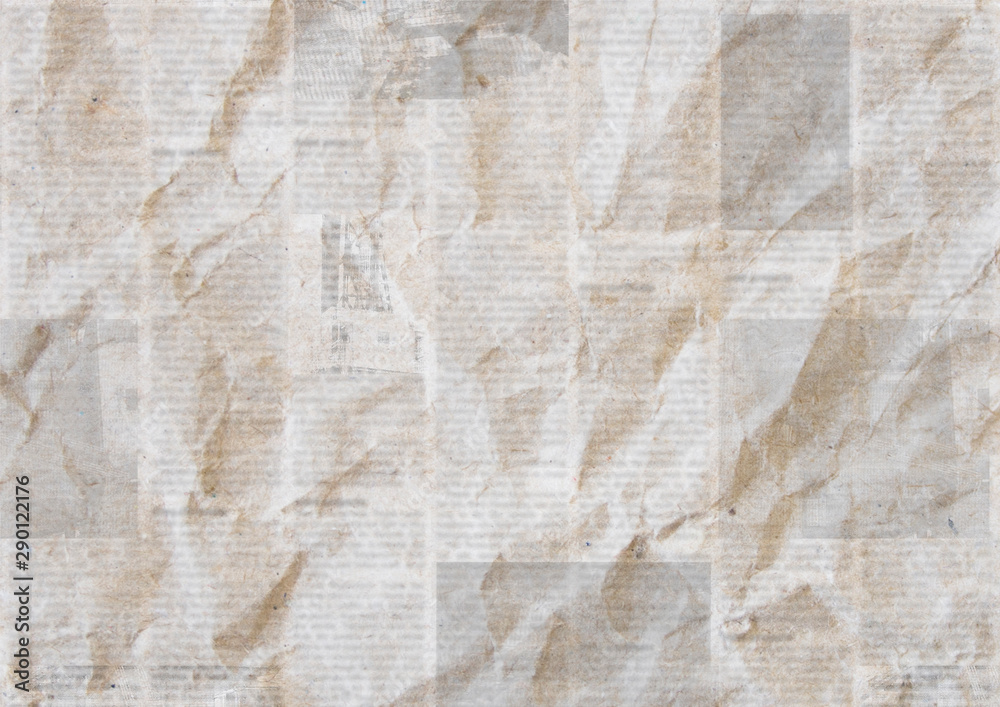
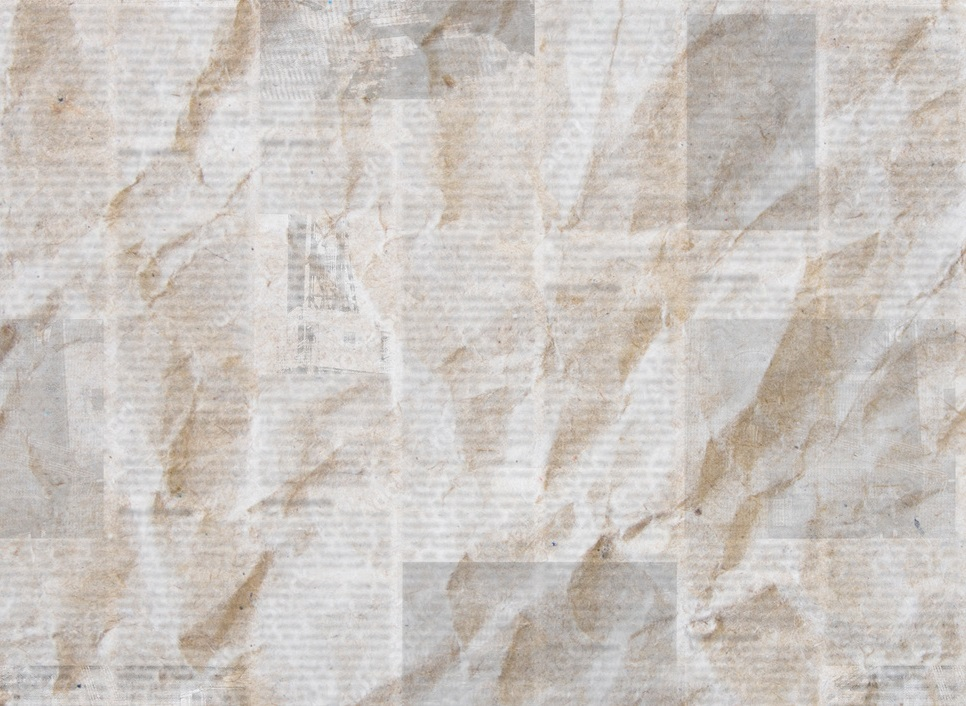
formatted related stocks buttons - arrangement, size, spacing, hover, dynamics, etc., and cropped background image to remove watermark that showed on full screen

diff --git a/assets/style.css b/assets/style.css
@@ -171,6 +171,7 @@ input {
     margin-left: 20px;
     background-image: linear-gradient(rgb(220, 220, 220), white);
     background-image: url("newspaperbackground.jpg");
+    background-size: cover;
     border: 2px solid black;
     border-radius: 15px;
     box-shadow: 2px 2px 2px black;
@@ -186,22 +187,26 @@ input {
     flex-basis: 100%;
 }
 
-#sectorStocks.button {
-    background-color: rgb(255, 255, 255);
+#sectorStocks {
+    display: flex;
+    flex-flow: row wrap;
+    justify-content: center;
+}
+
+#related-button {
+    background-color: white;
     border: 2px solid black;
     border-radius: 5px;
     box-shadow: 2px 2px 2px black;
-    width: fit-content;
-    min-width: 100px;
-    height: fit-content;
-    margin: 10px;
+    width: 200px;
+    height: 50px;
+    margin: 20px;
     padding: 5px;
-    font-size: 20px;
+    font-size: 12px;
 }
 
-#related1:hover, #related2:hover, #related3:hover {
+#related-button:hover {
     scale: 105%;
-    font-size: 22px;
     color: white;
     background-color: blue;
 }

diff --git a/assets/script.js b/assets/script.js
@@ -133,7 +133,7 @@ function showStockData(data) {
         for (let i = 0; i < dataSet.length; i++) {
             if (dataSet[i].Sector == sectorName) {
                 console.log(dataSet[i].Name);
-                var sectorStockBtn = $("<button>").text(dataSet[i].Name + " - " + dataSet[i].Symbol);
+                var sectorStockBtn = $("<button>").text(dataSet[i].Name + " - " + dataSet[i].Symbol).attr("id", "related-button");
                 sectorStocks.append(sectorStockBtn);
             }
         };
